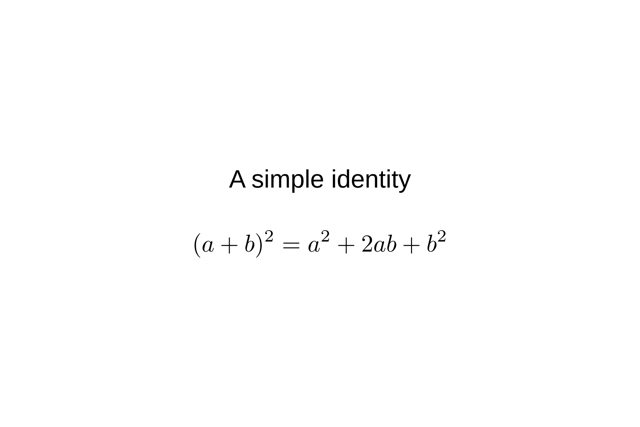
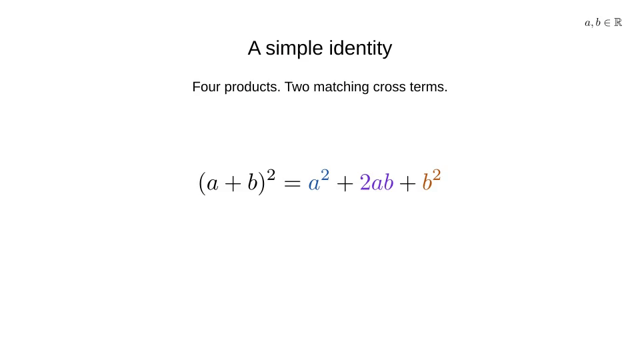
Replace the identity still with a reviewed term-by-term GIF and a brief 3Blue1Brown reference.

diff --git a/tasks/rendering-check/checks.py b/tasks/rendering-check/checks.py
@@ -1,13 +1,16 @@
-"""Verify the identity algebraically and check the final figure's geometry."""
+"""Verify the algebra, GIF integrity, stage order, and final reading hold."""
 
 import hashlib
 import json
 from pathlib import Path
 
+import numpy as np
 from PIL import Image, ImageChops
 
 folder = Path(__file__).resolve().parent
-artifact = folder / "output/visualization.png"
+artifact = folder / 'output/visualization.gif'
+checksum = hashlib.sha256(artifact.read_bytes()).hexdigest()
+source_checksum = hashlib.sha256((folder / 'scene.py').read_bytes()).hexdigest()
 terms = {(1, 0): 1, (0, 1): 1}
 expanded = {}
 for (a1, b1), c1 in terms.items():
@@ -16,25 +19,81 @@ for (a1, b1), c1 in terms.items():
         expanded[power] = expanded.get(power, 0) + c1 * c2
 assert expanded == {(2, 0): 1, (1, 1): 2, (0, 2): 1}
 assert all((a+b)**2 == a*a + 2*a*b + b*b for a in range(-5, 6) for b in range(-5, 6))
-with Image.open(artifact) as image:
-    image.load()
-    assert image.size == (1800, 1200)
-    assert all(abs(dpi - 300) < 1 for dpi in image.info["dpi"])
-    rgb = image.convert("RGB")
-    box = ImageChops.difference(rgb, Image.new("RGB", rgb.size, "white")).getbbox()
-    assert box and box[0] > 20 and box[1] > 20 and box[2] < 1780 and box[3] < 1180
-    dimensions = image.size
-checksum = hashlib.sha256(artifact.read_bytes()).hexdigest()
-report = {
-    "passed": True, "artifact_sha256": checksum, "dimensions": dimensions,
-    "dpi": 300, "foreground_bounds": box,
-    "math": "Exact polynomial coefficient expansion passed, plus 121 integer-pair checks.",
-}
-for run in sorted((folder / "runs").glob("*/result.json"), reverse=True):
-    data = json.loads(run.read_text())
-    if data.get("artifact_sha256") == checksum:
-        report["tool_versions"] = data["environment"]["tool_versions"]
-        report["render_run"] = run.parent.name
+
+storyboard_path = folder / 'storyboard.json'
+for result_path in sorted((folder / 'runs').glob('*/result.json'), reverse=True):
+    result = json.loads(result_path.read_text())
+    if result.get('artifact_sha256') == checksum:
+        run = result_path.parent
+        request = json.loads((run / 'request.json').read_text())
+        assert request['source_sha256'] == source_checksum
+        storyboard = {'artifact_sha256': checksum, 'source_sha256': source_checksum,
+                      'stages': json.loads((run / 'stages.json').read_text()),
+                      'render_run': run.name, 'render_fps': result['settings']['fps'],
+                      'tool_versions': result['environment']['tool_versions']}
+        storyboard_path.write_text(json.dumps(storyboard, indent=2) + '\n')
         break
-(folder / "verification.json").write_text(json.dumps(report, indent=2) + "\n")
+storyboard = json.loads(storyboard_path.read_text())
+assert storyboard['artifact_sha256'] == checksum and storyboard['source_sha256'] == source_checksum
+expected = ['square', 'factors', 'product-1', 'product-2', 'product-3', 'product-4',
+            'distributed', 'expanded', 'matching-cross-terms', 'collected', 'final']
+assert list(storyboard['stages']) == expected
+assert storyboard['render_fps'] == 15
+assert all(storyboard['stages'][left]['time'] < storyboard['stages'][right]['time']
+           for left, right in zip(expected, expected[1:]))
+
+frames = []
+elapsed = 0
+bounds = []
+with Image.open(artifact) as reference_image:
+    reference_image.seek(reference_image.n_frames - 1)
+    reference = np.asarray(reference_image.convert('RGB')).astype(np.int16)
+with Image.open(artifact) as image:
+    assert image.format == 'GIF' and image.size == (960, 540)
+    assert image.info.get('loop') == 0
+    for index in range(image.n_frames):
+        image.seek(index)
+        image.load()
+        assert image.size == (960, 540)
+        duration = image.info.get('duration', 0) / 1000
+        assert duration > 0
+        rgb = image.convert('RGB')
+        box = ImageChops.difference(rgb, Image.new('RGB', rgb.size, 'white')).getbbox()
+        assert box and box[0] > 10 and box[1] > 10 and box[2] < 950 and box[3] < 530
+        bounds.append(box)
+        pixels = np.asarray(rgb).astype(np.int16)
+        foreground = (reference.min(axis=2) < 240) | (pixels.min(axis=2) < 240)
+        difference = np.abs(reference - pixels)
+        # MP4-to-GIF encoding introduces tiny palette/background differences.
+        # Test visible foreground stability rather than exact pixel identity.
+        stable_final = (difference[foreground].mean() <= .25
+                        and (difference.max(axis=2)[foreground] > 20).mean() <= .005)
+        frames.append((elapsed, elapsed + duration, hashlib.sha256(rgb.tobytes()).hexdigest(), bool(stable_final)))
+        elapsed += duration
+stage_frames = {}
+for name, stage in storyboard['stages'].items():
+    frame = next(frame for frame in frames if frame[0] <= stage['time'] < frame[1])
+    stage_frames[name] = frame[2]
+assert len(set(stage_frames.values())) == len(expected), 'Each held stage must visibly differ'
+final_hold = 0
+for start, end, digest, stable in reversed(frames):
+    if not stable:
+        break
+    final_hold += end - start
+assert final_hold >= 2, final_hold
+with Image.open(folder / 'output/thumbnail.png') as thumbnail:
+    thumbnail.verify()
+content = (folder / 'content.md').read_text().strip()
+assert len(content.split('\n\n')) == 1 and len(content.split()) <= 60
+assert 'https://www.3blue1brown.com/lessons/essence-of-calculus/' in content
+report = {'passed': True, 'artifact_sha256': checksum, 'dimensions': [960, 540],
+          'frames': len(frames), 'duration_seconds': elapsed, 'loop': 0, 'render_fps': 15,
+          'final_hold_seconds': final_hold, 'stage_times': {key: value['time'] for key, value in storyboard['stages'].items()},
+          'hold_tolerance': 'Foreground mean RGB difference <=0.25; at most 0.5% of foreground pixels differ by more than 20.',
+          'stage_frame_hashes': stage_frames,
+          'foreground_bounds': [min(b[0] for b in bounds), min(b[1] for b in bounds),
+                                max(b[2] for b in bounds), max(b[3] for b in bounds)],
+          'math': 'Exact polynomial coefficient expansion and 121 integer-pair checks passed.',
+          'render_run': storyboard['render_run'], 'tool_versions': storyboard['tool_versions']}
+(folder / 'verification.json').write_text(json.dumps(report, indent=2) + '\n')
 print(json.dumps(report, indent=2))

diff --git a/tasks/rendering-check/scene.py b/tasks/rendering-check/scene.py
@@ -1,9 +1,96 @@
-from manim import Scene, Text, MathTex, VGroup, FadeIn, DOWN
+"""Show distribution, matching cross terms, and the square-of-a-sum identity."""
+
+import json
+from pathlib import Path
+
+from manim import (
+    Scene, Text, MathTex, VGroup, TransformMatchingTex, TransformFromCopy,
+    ReplacementTransform, FadeIn, FadeOut, Create, SurroundingRectangle,
+    CurvedArrow, UP, DOWN, RIGHT, UR, config,
+)
+
+BLUE = "#1756a9"
+PURPLE = "#6d28d9"
+ORANGE = "#b45309"
+
 
 class Visualization(Scene):
+    def hold(self, name, expression, duration):
+        self.wait(duration / 2)
+        self.stages[name] = {"time": float(self.time), "expression": expression}
+        self.wait(duration / 2)
+
     def construct(self):
-        title = Text("A simple identity", font_size=34)
-        equation = MathTex(r"(a+b)^2 = a^2 + 2ab + b^2", font_size=44)
-        group = VGroup(title, equation).arrange(DOWN, buff=0.7)
-        self.play(FadeIn(group), run_time=1)
-        self.wait(1)
+        self.stages = {}
+        title = Text("A simple identity", font_size=32).move_to(UP * 2.9)
+        caption = Text("Where does the middle term come from?", font_size=22).move_to(UP * 2.05)
+        assumption = MathTex(r"a,b\in\mathbb{R}", font_size=24).to_corner(UR, buff=.4)
+        square = MathTex(r"(a+b)^2", font_size=58).move_to(UP * .8)
+        self.add(title, caption, assumption, square)
+        self.hold("square", r"(a+b)^2", .9)
+
+        factors = MathTex("(", "a", "+", "b", ")", "(", "a", "+", "b", ")", font_size=58).move_to(UP * .8)
+        for index in (1, 6):
+            factors[index].set_color(BLUE)
+        for index in (3, 8):
+            factors[index].set_color(ORANGE)
+        self.play(TransformMatchingTex(square, factors), run_time=.8)
+        self.hold("factors", r"(a+b)(a+b)", .7)
+        instruction = Text("Multiply each term by each term", font_size=22).move_to(caption)
+        self.play(ReplacementTransform(caption, instruction), run_time=.3)
+
+        expressions = [r"a\cdot a", "+", r"a\cdot b", "+", r"b\cdot a", "+", r"b\cdot b"]
+        products = VGroup(*(MathTex(expression, font_size=42) for expression in expressions))
+        products.arrange(RIGHT, buff=.18).move_to(DOWN * .65)
+        colors = [BLUE, PURPLE, PURPLE, ORANGE]
+        pairs = [(1, 6), (1, 8), (3, 6), (3, 8)]
+        for number, ((left, right), color) in enumerate(zip(pairs, colors)):
+            target = products[number * 2].set_color(color)
+            focus = VGroup(*(SurroundingRectangle(factors[index], color=color, buff=.05, stroke_width=2)
+                             for index in (left, right)))
+            arrows = VGroup(*(CurvedArrow(factors[index].get_bottom() + DOWN * .1,
+                                         target.get_top() + UP * .12,
+                                         angle=-.45, color=color, stroke_width=2, tip_length=.1)
+                              for index in (left, right)))
+            self.play(Create(focus), Create(arrows), run_time=.2)
+            animations = [TransformFromCopy(VGroup(factors[left], factors[right]), target)]
+            if number:
+                animations.append(FadeIn(products[number * 2 - 1]))
+            self.play(*animations, run_time=.65)
+            self.hold(f"product-{number+1}", "+".join(expressions[:number*2+1:2]), .45)
+            self.play(FadeOut(focus), FadeOut(arrows), run_time=.15)
+        self.hold("distributed", r"a\cdot a+a\cdot b+b\cdot a+b\cdot b", .65)
+
+        expanded = MathTex(r"a^2", "+", "ab", "+", "ba", "+", r"b^2", font_size=46).move_to(products)
+        for index, color in zip((0, 2, 4, 6), colors):
+            expanded[index].set_color(color)
+        self.play(TransformMatchingTex(products, expanded), run_time=.8)
+        self.hold("expanded", r"a^2+ab+ba+b^2", .8)
+
+        cross_caption = Text("The two cross terms are equal", font_size=22).move_to(instruction)
+        self.play(ReplacementTransform(instruction, cross_caption), run_time=.3)
+        focus = SurroundingRectangle(VGroup(*expanded[2:5]), color=PURPLE, buff=.15)
+        self.play(Create(focus), run_time=.25)
+        commuted = MathTex(r"a^2", "+", "ab", "+", "ab", "+", r"b^2", font_size=46).move_to(expanded)
+        for index, color in zip((0, 2, 4, 6), colors):
+            commuted[index].set_color(color)
+        self.play(TransformMatchingTex(expanded, commuted), run_time=.8)
+        self.hold("matching-cross-terms", r"a^2+ab+ab+b^2", 1)
+        self.play(FadeOut(focus), run_time=.2)
+
+        combined = MathTex(r"a^2", "+", "2ab", "+", r"b^2", font_size=46).move_to(commuted)
+        for index, color in zip((0, 2, 4), (BLUE, PURPLE, ORANGE)):
+            combined[index].set_color(color)
+        collect_caption = Text("Combine the matching terms", font_size=22).move_to(cross_caption)
+        self.play(ReplacementTransform(cross_caption, collect_caption), TransformMatchingTex(commuted, combined), run_time=.8)
+        self.hold("collected", r"a^2+2ab+b^2", .8)
+
+        final = MathTex(r"(a+b)^2", "=", r"a^2", "+", "2ab", "+", r"b^2", font_size=50)
+        final.move_to(DOWN * .05)
+        for index, color in zip((2, 4, 6), (BLUE, PURPLE, ORANGE)):
+            final[index].set_color(color)
+        takeaway = Text("Four products. Two matching cross terms.", font_size=22).move_to(collect_caption)
+        self.play(FadeOut(factors), TransformMatchingTex(combined, final),
+                  ReplacementTransform(collect_caption, takeaway), run_time=.9)
+        self.hold("final", r"(a+b)^2=a^2+2ab+b^2", 2.2)
+        (Path(config.media_dir).parent / "stages.json").write_text(json.dumps(self.stages, indent=2) + "\n")

diff --git a/docs/visual-standards.md b/docs/visual-standards.md
@@ -12,6 +12,8 @@ The [3Blue1Brown neural-network lesson](https://www.3blue1brown.com/lessons/neur
 
 The first samples were created to test the rendering and publication pipeline. Their existing reviews cover their original task requirements. This audit also asks whether they work as explanatory scenes.
 
+The table records that initial audit. The identity sample has since been replaced by a reviewed GIF that forms each product, identifies the matching cross terms, and collects them into the final expression.
+
 | Criterion | ManimML forward-pass sample | Identity figure |
 | --- | --- | --- |
 | Correct structure or expression | Pass: a 2–3–1 schematic, with no numerical prediction claim | Pass: exact algebraic check and LaTeX rendering |
@@ -54,6 +56,6 @@ Keep all mathematics in LaTeX and prose in the selected Arial-family font. Contr
 
 For a forward-pass explanation, introduce the input, hidden, and output roles; focus on one neuron; show its weighted sum and activation; then extend the same mechanism to a layer and its matrix expression. Choose explicit values only when that task's numerical example has been specified and independently checked.
 
-For a visual explanation of the square-of-a-sum identity, show a square partitioned into its four component regions, label their areas with LaTeX, and connect those regions to the expanded expression. The current identity figure remains a typesetting/rendering check.
+The identity GIF now demonstrates the algebraic expansion term by term. A complementary geometric version could show a square partitioned into four regions, label their areas with LaTeX, and connect them to the same expanded expression.
 
 Include the applicable storyboard and explanatory criteria in each new task's requirements. The reviewing agent must assess them from the actual rendered output; media validation cannot infer educational clarity.

diff --git a/tasks/rendering-check/requirements.md b/tasks/rendering-check/requirements.md
@@ -1,3 +1,9 @@
 # A simple identity
 
-Render a white figure titled A simple identity in Liberation Sans. Typeset the identity (a+b)^2 = a^2 + 2ab + b^2 with LaTeX below it. Keep the title and equation clearly readable with no clipping.
+Render a looping GIF titled "A simple identity" on white, with Arial-family prose and all mathematical expressions authored in LaTeX. State that the variables are real scalars.
+
+Show the square of a sum as two factors. Highlight each of the four term pairs in turn and visibly form its product. Simplify the products into square and cross terms, show the two cross terms becoming identical, combine them, and finish with the complete square-of-a-sum identity. Preserve color meanings and give the intermediate expressions and final answer readable holds. Do not jump straight from the two factors to the final result.
+
+Deliver a 960 × 540 GIF at approximately 15 fps, looping indefinitely, and a PNG card thumbnail. Keep all expressions inside the canvas. The final identity must remain visible for at least two seconds.
+
+The detail page should contain one very short paragraph about how visualization makes a formula understandable, with a relevant hyperlink to 3Blue1Brown. It should show this GIF in place of the old still image.

diff --git a/website/samples/rendering-check.md b/website/samples/rendering-check.md
@@ -1,9 +1,9 @@
 # A simple identity
 
-![Visualization of a simple identity.](assets/rendering-check/visualization.png)
+![An animated expansion of the square of a sum, showing four products and then combining the two cross terms.](assets/rendering-check/visualization.gif)
 
-Expanding the square of a sum gives the two square terms and twice their product. This example checks that prose and LaTeX mathematics render clearly together.
+The beauty of visualization is seeing why a formula works: each product appears, then matching terms combine. Inspired by [3Blue1Brown’s visual approach to mathematical understanding](https://www.3blue1brown.com/lessons/essence-of-calculus/).
 
-[Download visualization](assets/rendering-check/visualization.png)
+[Download visualization](assets/rendering-check/visualization.gif)
 
 [Back to sample visualizations](index.md)

diff --git a/tasks/rendering-check/content.md b/tasks/rendering-check/content.md
@@ -1,1 +1,1 @@
-Expanding the square of a sum gives the two square terms and twice their product. This example checks that prose and LaTeX mathematics render clearly together.
+The beauty of visualization is seeing why a formula works: each product appears, then matching terms combine. Inspired by [3Blue1Brown’s visual approach to mathematical understanding](https://www.3blue1brown.com/lessons/essence-of-calculus/).
